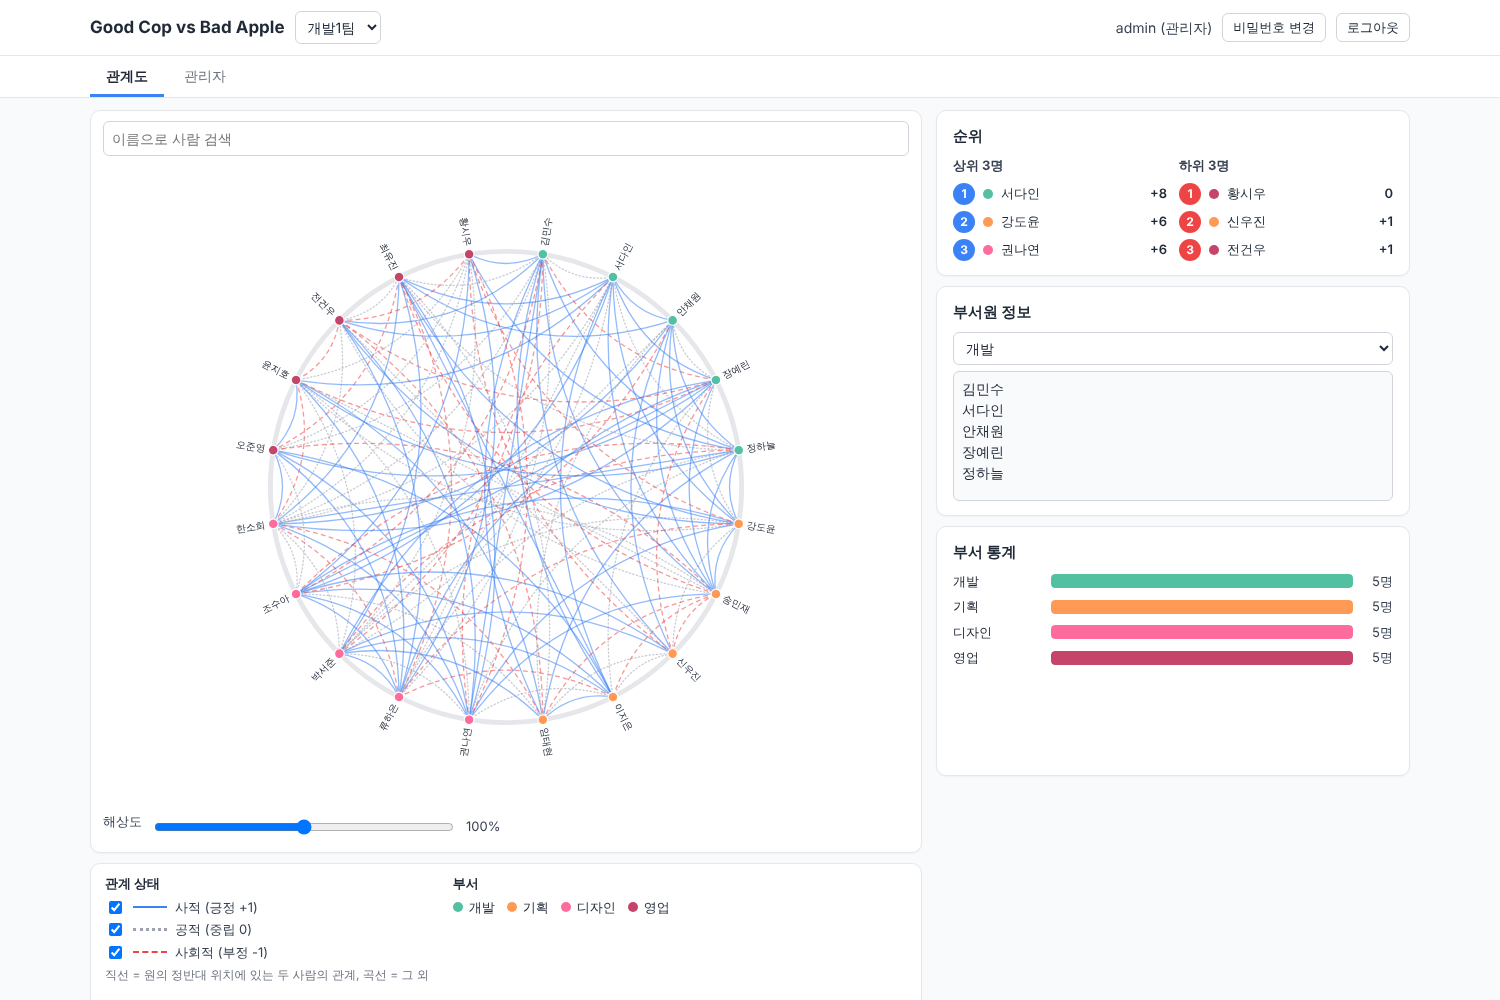
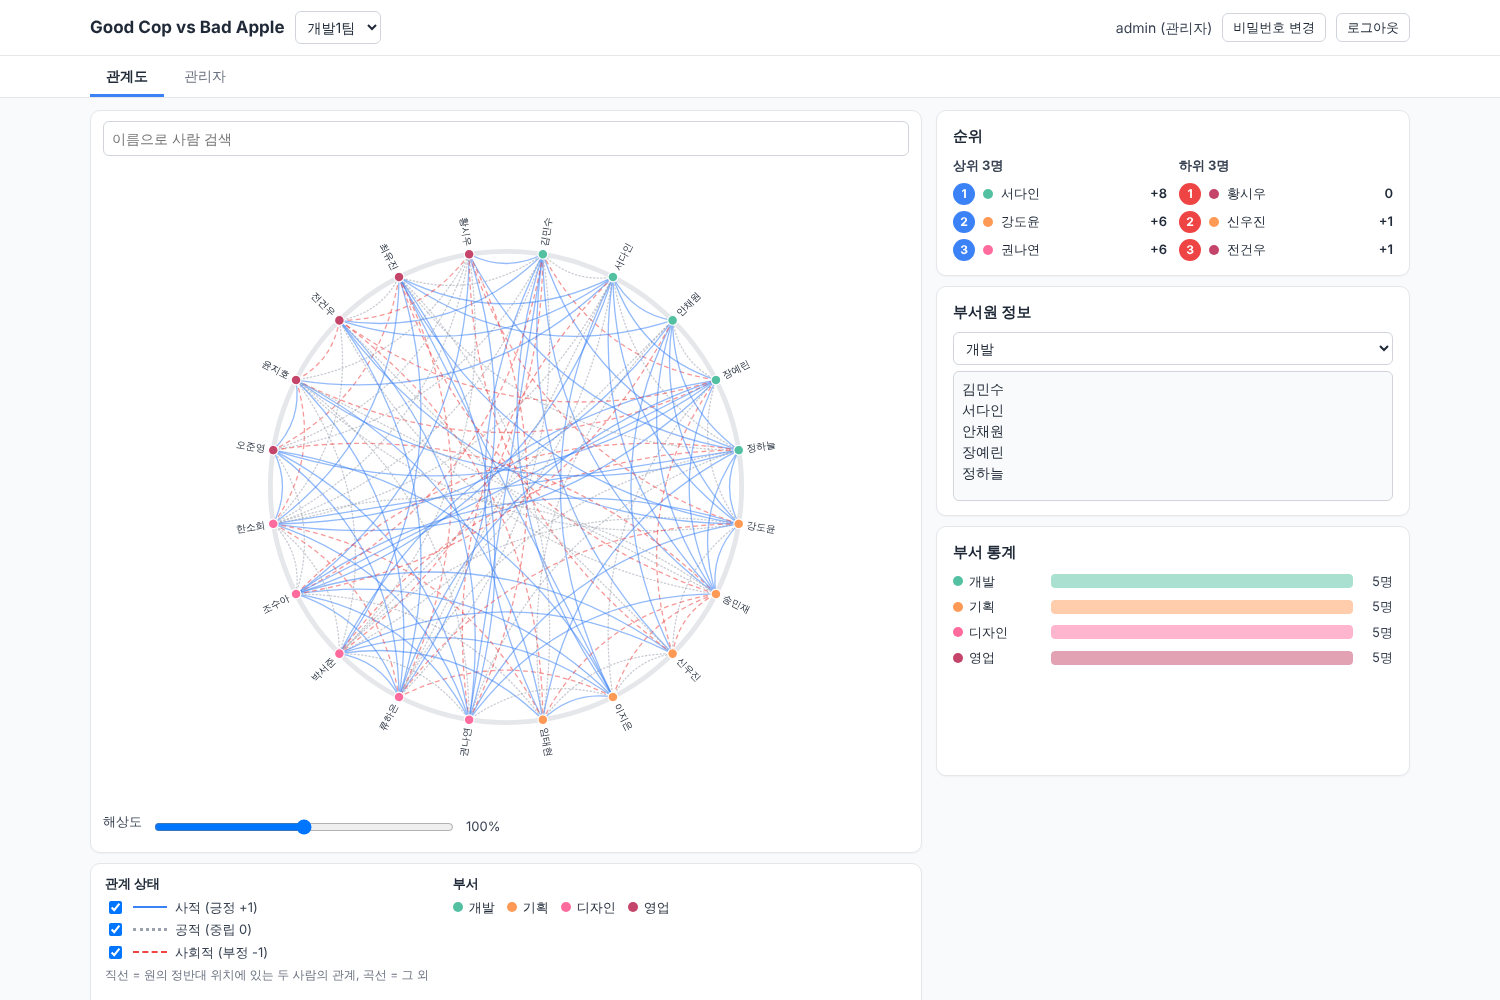
Use pastel tints of department colors for department stats bars
Claude-Session: https://claude.ai/code/session_01DsfKjRFUmAajqSco24Yp3e

Changed region(s): [[0.7053, 0.558, 0.92, 0.682], [0.644, 0.558, 0.6747, 0.682]]

diff --git a/public/app.js b/public/app.js
@@ -94,6 +94,14 @@ function fmtDate(iso) {
   return `${d.getFullYear()}-${p(d.getMonth() + 1)}-${p(d.getDate())} ${p(d.getHours())}:${p(d.getMinutes())}`;
 }
 
+/** 색을 흰색과 섞어 파스텔 톤으로 (amount: 흰색 비율 0~1) */
+function pastel(hex, amount = 0.5) {
+  const n = parseInt(hex.slice(1), 16);
+  const mix = (c) => Math.round(c + (255 - c) * amount);
+  const [r, g, b] = [(n >> 16) & 255, (n >> 8) & 255, n & 255].map(mix);
+  return `rgb(${r}, ${g}, ${b})`;
+}
+
 function fmtScore(n) {
   return n > 0 ? `+${n}` : String(n);
 }
@@ -753,8 +761,8 @@ function renderDeptStats() {
   if (!counts.length) box.append(h('p', { class: 'muted', text: '부서가 없습니다.' }));
   for (const { d, n } of counts) {
     box.append(h('div', { class: 'stat-row', title: `${d.name}: ${n}명` }, [
-      h('span', { class: 'name', text: d.name }),
-      h('div', { class: 'stat-bar' }, [h('span', { style: { width: `${(n / max) * 100}%`, background: d.color } })]),
+      h('span', { class: 'name' }, [h('span', { class: 'dot', style: { background: d.color } }), d.name]),
+      h('div', { class: 'stat-bar' }, [h('span', { style: { width: `${(n / max) * 100}%`, background: pastel(d.color) } })]),
       h('span', { class: 'num', text: `${n}명` }),
     ]));
   }

diff --git a/public/style.css b/public/style.css
@@ -161,7 +161,7 @@ input:focus-visible, select:focus-visible, textarea:focus-visible, button:focus-
 .panel-stats { height: 25vh; min-height: 160px; display: flex; flex-direction: column; }
 .dept-stats { flex: 1; overflow: auto; display: flex; flex-direction: column; gap: 6px; }
 .stat-row { display: grid; grid-template-columns: 90px 1fr 32px; gap: 8px; align-items: center; font-size: 13px; }
-.stat-row .name { overflow: hidden; text-overflow: ellipsis; white-space: nowrap; }
+.stat-row .name { display: flex; align-items: center; gap: 6px; overflow: hidden; text-overflow: ellipsis; white-space: nowrap; }
 .stat-bar { height: 14px; background: #f3f4f6; border-radius: 4px; overflow: hidden; }
 .stat-bar span { display: block; height: 100%; border-radius: 4px; }
 .stat-row .num { text-align: right; color: var(--text-2); }
